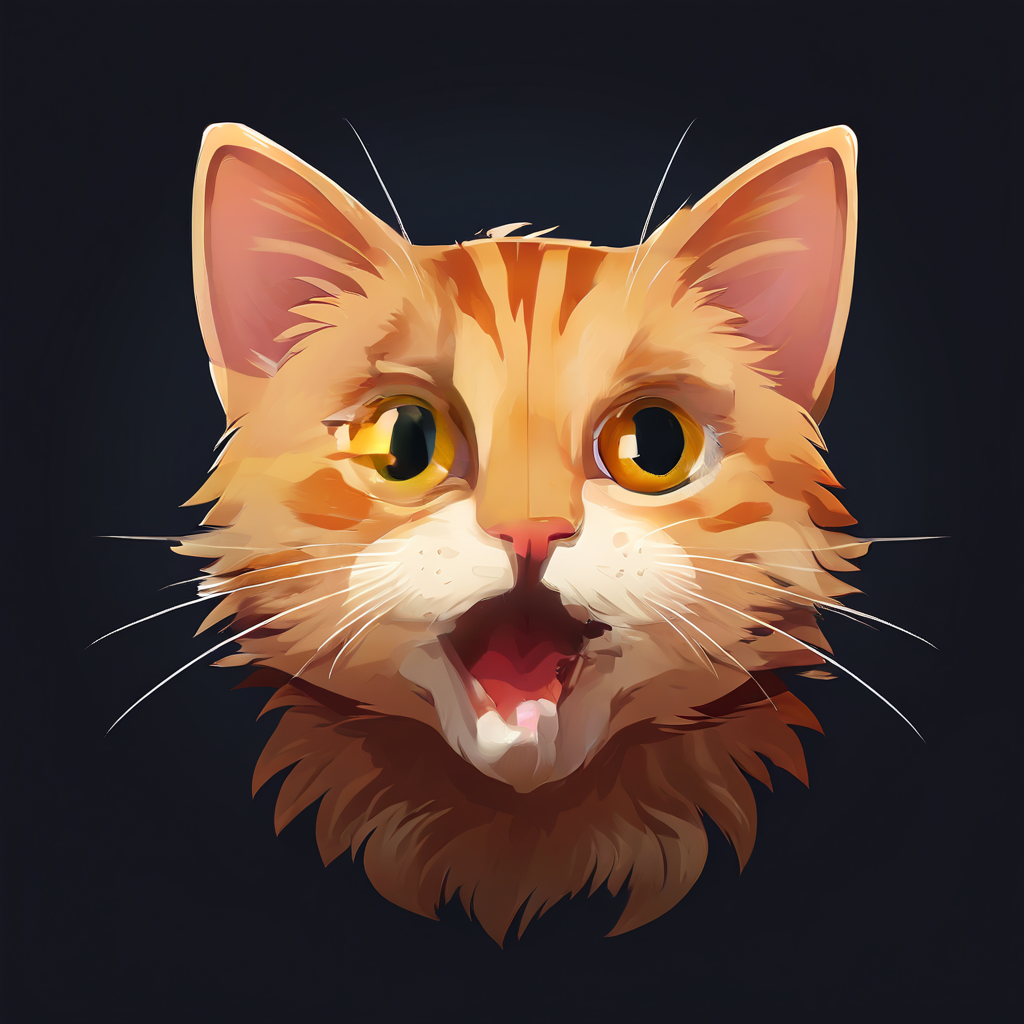
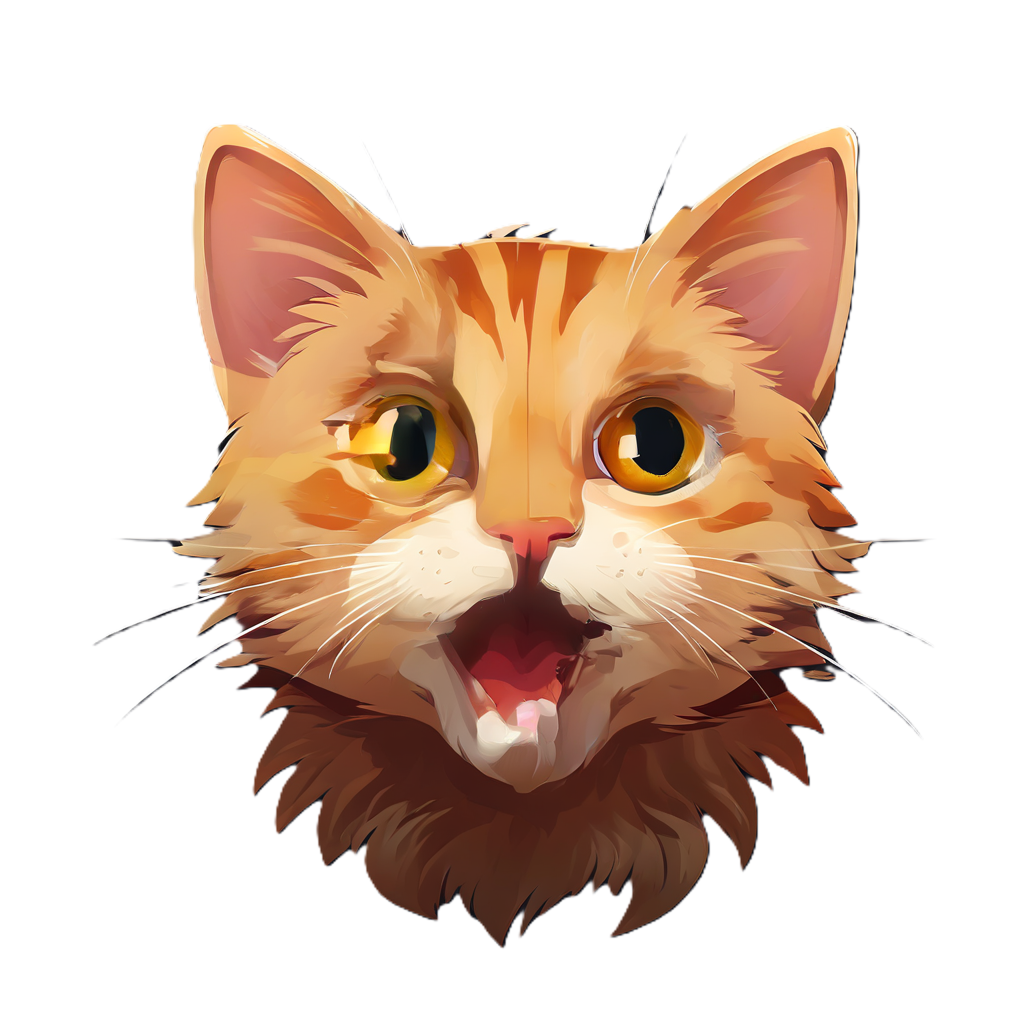
修改icon

diff --git a/composeApp/src/desktopMain/kotlin/top/ntutn/katbox/main.kt b/composeApp/src/desktopMain/kotlin/top/ntutn/katbox/main.kt
@@ -1,21 +1,12 @@
 package top.ntutn.katbox
 
-import androidx.compose.runtime.Composable
-import androidx.compose.runtime.LaunchedEffect
-import androidx.compose.runtime.getValue
-import androidx.compose.runtime.mutableStateOf
-import androidx.compose.runtime.remember
-import androidx.compose.ui.window.ApplicationScope
-import androidx.compose.ui.window.Tray
 import androidx.compose.ui.window.Window
 import androidx.compose.ui.window.application
-import dorkbox.systemTray.MenuItem
-import dorkbox.systemTray.SystemTray
+import com.kdroid.composetray.tray.api.Tray
 import katbox.composeapp.generated.resources.Res
 import katbox.composeapp.generated.resources.kat_box
 import org.jetbrains.compose.resources.painterResource
-import org.jetbrains.skiko.OS
-import org.jetbrains.skiko.hostOs
+import java.nio.file.Paths
 
 fun main() = application {
     Window(
@@ -25,33 +16,53 @@ fun main() = application {
     ) {
         App()
     }
-    if (hostOs == OS.Windows) {
-        ComposeTray(::exitApplication)
-    } else {
-        DorkTray(::exitApplication)
-    }
-}
-
-@Composable
-fun ApplicationScope.ComposeTray(onExit: () -> Unit = {}) {
+    val iconPath = Paths.get("src/desktopMain/resources/kat-box.png").toUri().toString()
+    val windowsIconPath = Paths.get("src/desktopMain/resources/kat-box.ico").toUri().toString()
     Tray(
-        icon = painterResource(Res.drawable.kat_box),
-        tooltip = "KatBox",
-        onAction = onExit
+        iconPath = iconPath,
+        windowsIconPath = windowsIconPath,
+        tooltip = "My Application",
+        primaryAction = {
+        },
+        primaryActionLinuxLabel = "Open Application"
     ) {
-        Item("Exit", onClick = onExit) // not support chinese
-    }
-}
+        SubMenu(label = "Options") {
+            Item(label = "Setting 1") {
+            }
+            SubMenu(label = "Advanced Sub-options") {
+                Item(label = "Advanced Option 1") {
+                }
+                Item(label = "Advanced Option 2") {
+                }
+            }
+        }
 
-@Composable
-fun DorkTray(onExit: () -> Unit = {}) {
-    val tray by remember { mutableStateOf(SystemTray.get()!!) }
+        Divider()
 
-    LaunchedEffect(true) {
-        //tray.installShutdownHook() // Auto-remove icon when application is killed
-        tray.setImage(javaClass.getResourceAsStream("/kat-box.png")) // Use icon in src/main/resources/icon.png
-        tray.menu.add(MenuItem("退出").apply {
-            setCallback { onExit() }
-        })
+        SubMenu(label = "Tools") {
+            Item(label = "Calculator") {
+            }
+            Item(label = "Notepad") {
+            }
+        }
+
+        Divider()
+
+        CheckableItem(label = "Enable notifications") { isChecked ->
+        }
+
+        Divider()
+
+        Item(label = "About") {
+        }
+
+        Divider()
+
+        Item(label = "Exit", isEnabled = true) {
+            dispose()
+            exitApplication()
+        }
+
+        Item(label = "Version 1.0.0", isEnabled = false)
     }
 }
